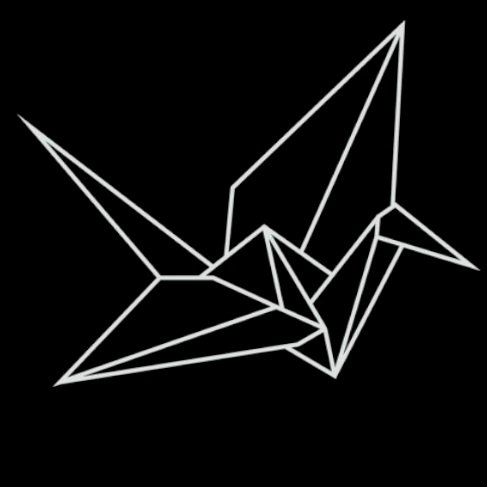
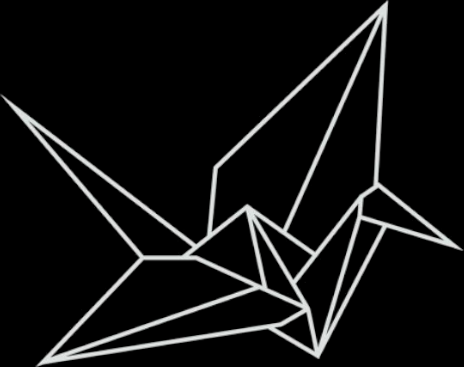
fix: update aspect ratio for media elements to 16:9 in project styles

Changed region(s): [[0.0, 0.0, 1.0, 1.0], [0.2112, 0.6594, 0.2414, 0.6894]]

diff --git a/app/projetos/[slug]/page.module.css b/app/projetos/[slug]/page.module.css
@@ -16,7 +16,7 @@
 
 .media {
   position: relative;
-  aspect-ratio: 1 / 1;
+  aspect-ratio: 16 / 9;
   /* covers dos projetos são logos com fundo transparente/branco, feitos pra
      ficar sobre claro — fundo escuro faz logo escuro "sumir" (preto no preto) */
   background: #f5f5f0;

diff --git a/components/ProjectCard.module.css b/components/ProjectCard.module.css
@@ -9,7 +9,7 @@
 
 .media {
   position: relative;
-  aspect-ratio: 1 / 1;
+  aspect-ratio: 16 / 9;
   /* covers dos projetos são logos com fundo transparente/branco, feitos pra
      ficar sobre claro — fundo escuro faz logo escuro "sumir" (preto no preto) */
   background: #f5f5f0;
